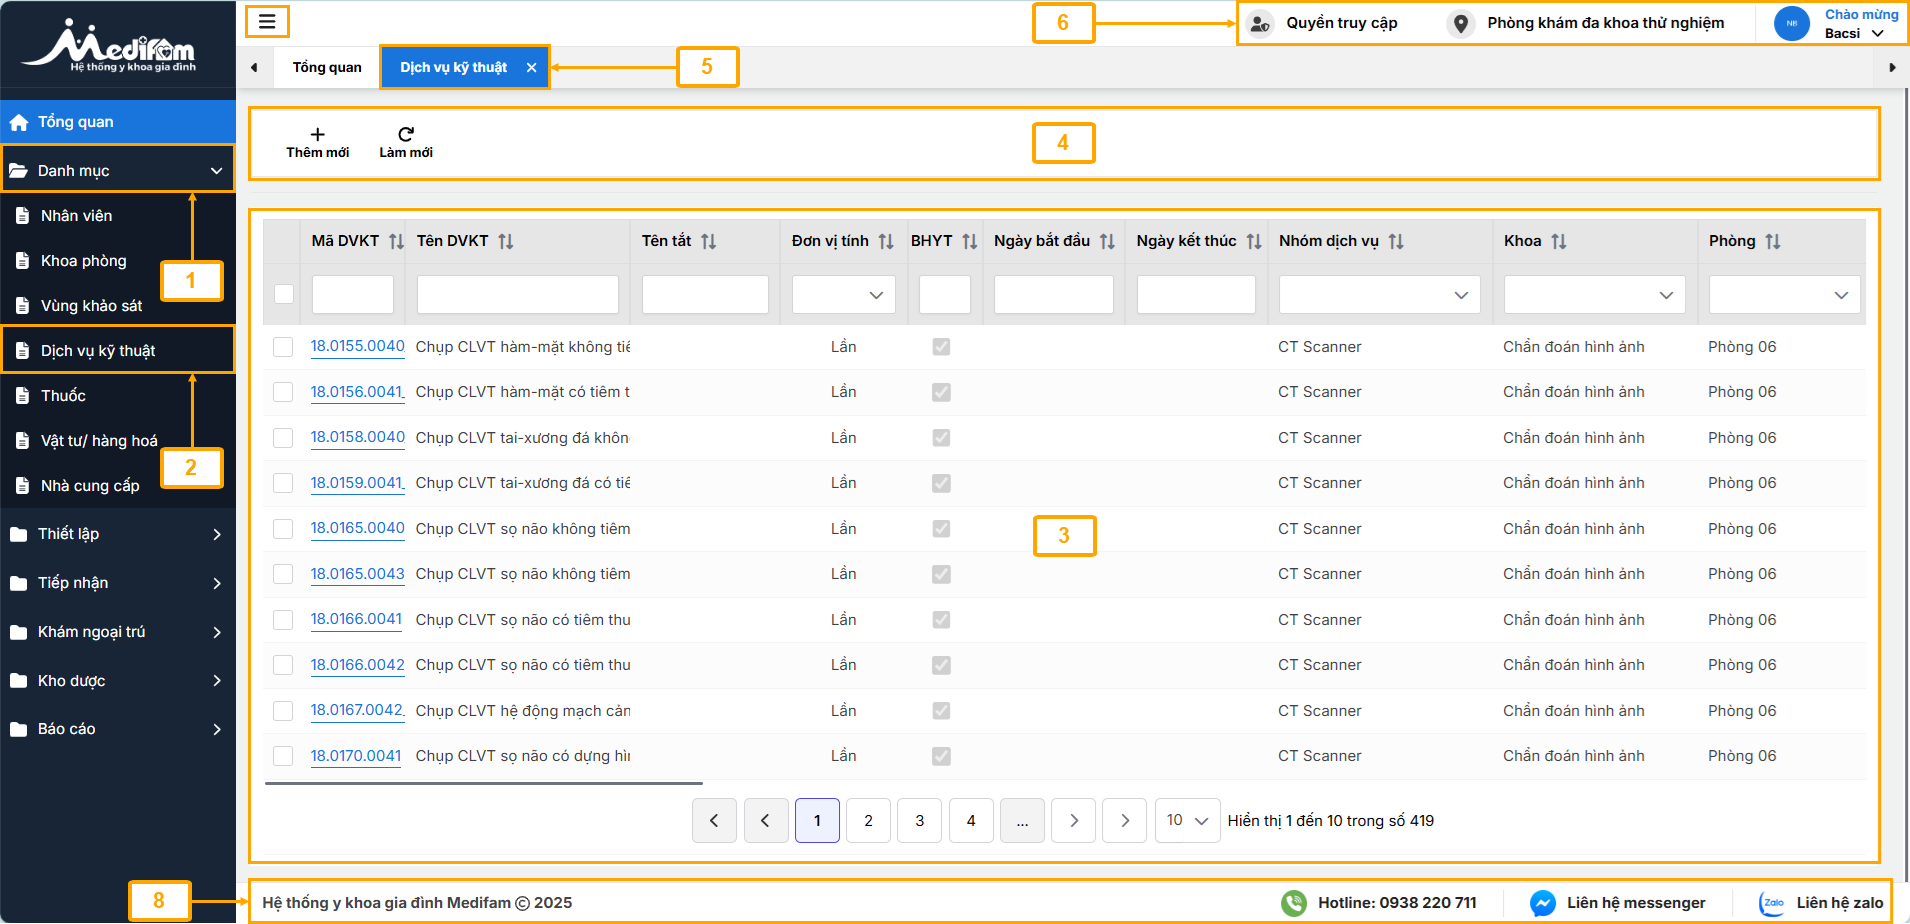
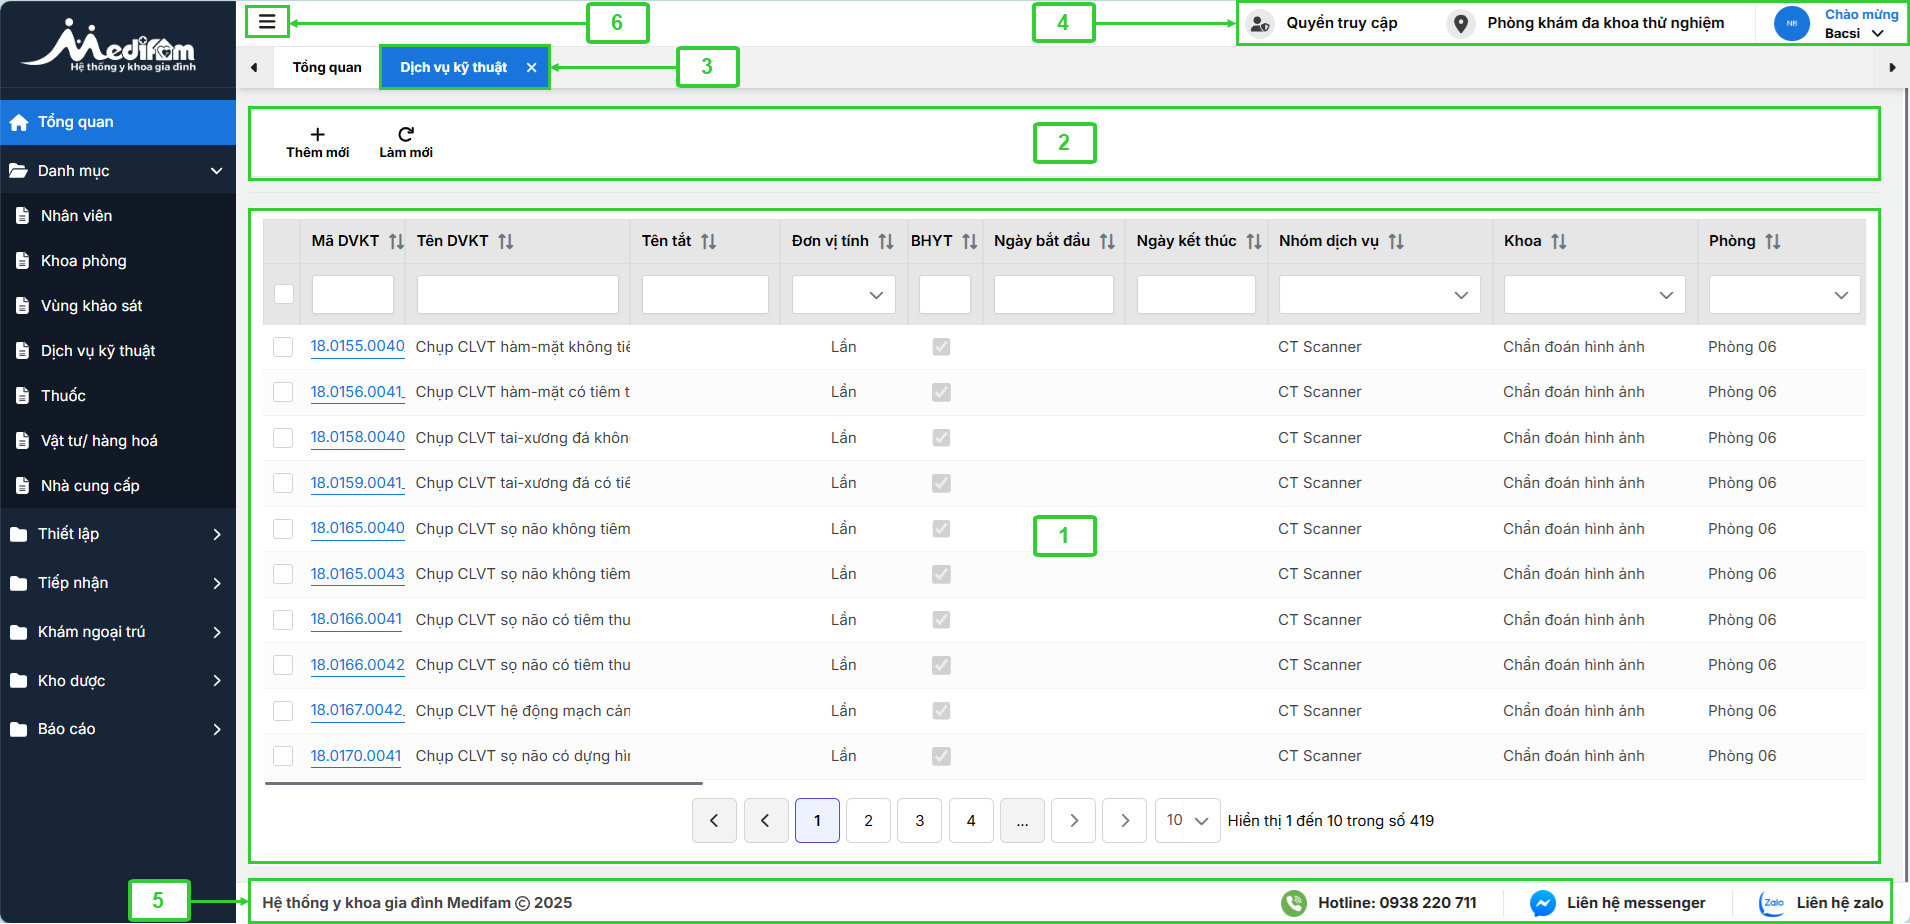
Update: Categories - Technical Service

diff --git a/src/css/custom.css b/src/css/custom.css
@@ -29,17 +29,57 @@
   --docusaurus-highlighted-code-line-bg: rgba(255, 255, 255, 0.1);
 }
 
-/* Custom: General */
-highlight {
-  background-color: #E8F9FF;
-  padding: 0.25rem 0.5rem 0.4rem;
-  border-radius: 0.5rem;
+/* Custom Highlight */
+hl-txt {
+  /* background-color: #d4eefa; */
+  background-color: rgb(238 249 253);
+  padding: 0.25rem 0.5rem 0.25rem;
+  border-radius: 4px;
 }
 
-/* custom navbar */
+.highlight-list {
+  counter-reset: list-counter;
+  list-style: none;
+  padding-left: 1rem;
+}
 
+.highlight-list li {
+  counter-increment: list-counter;
+  margin-bottom: 0.75rem;
+  padding-left: 3rem;
+  position: relative;
+}
+
+.highlight-list li::before {
+  content: counter(list-counter);
+  background-color: #fefefe;
+  color: #32CD32;
+  border: 2px solid #32CD32;
+  border-radius: 4px;
+  display: inline-block;
+  width: 2.25rem;
+  height: 1.25rem;
+  line-height: 1.5rem;
+  text-align: center;
+  position: absolute;
+  left: 0;
+  top: 0;
+  font-size: 0.75rem;
+  font-weight: 600;
+  padding-bottom: 0.25rem;
+}
+
+/* Custom Content */
+.img-shadow {
+  box-shadow: 2px 2px 5px rgba(0, 0, 0, 0.2),
+    4px 4px 10px rgba(0, 0, 0, 0.3),
+    6px 6px 15px rgba(0, 0, 0, 0.4);
+  margin: 0.75rem 0.5rem 1.5rem;
+  border-radius: 0.25rem;
+}
+
+/* Custom Navbar */
 .navbar {
-  /* box-shadow: none; */
   height: 4rem;
 }
 
@@ -67,31 +107,3 @@ highlight {
   font-weight: 600;
 }
 
-/* Custom Footer */
-/* .footer {
-  background-color: #fafafb;
-  color: #23272f;
-}
-
-.footer__title {
-  font-size: 1.2rem;
-  font-weight: bold;
-}
-
-.footer__link {
-  color: #ffffff;
-  text-decoration: none;
-}
-
-.footer__link:hover {
-  text-decoration: underline;
-} */
-
-/* Custom Content */
-
-.img-shadow {
-  box-shadow: 2px 2px 5px rgba(0, 0, 0, 0.2), 
-              4px 4px 10px rgba(0, 0, 0, 0.3), 
-              6px 6px 15px rgba(0, 0, 0, 0.4);
-  margin-bottom: 16px;
-}

diff --git a/docs/categories/technical-serviecs.md b/docs/categories/technical-serviecs.md
@@ -6,19 +6,104 @@ sidebar_position: 1
 
 # Dịch Vụ Kỹ Thuật
 
-> <i>Dịch vụ kỹ thuật là phân hệ quản lý danh mục các dịch vụ kỹ thuật trong y tế, cho phép người dùng dễ dàng tra cứu, tìm kiếm, thêm mới, chỉnh sửa và xóa thông tin dịch vụ.</i>
+> <i>
+>   Dịch vụ kỹ thuật là phân hệ quản lý danh mục các dịch vụ kỹ thuật trong y
+>   tế, cho phép người dùng dễ dàng tra cứu, tìm kiếm, thêm mới, chỉnh sửa và
+>   xóa thông tin dịch vụ.
+> </i>
 
-### Giao diện
-
-<a href="/img/categories/cat-tech-serv-ui.png" target="_blank">
-    <img
-        src="/img/categories/cat-tech-serv-ui.png"
-        alt="technical-service-ui"
-        className="img-shadow"
-    />
+<a href="/img/categories/cat-tech-serv.png" target="_blank">
+  <img
+    src="/img/categories/cat-tech-serv.png"
+    alt="technical-service"
+    className="img-shadow"
+  />
 </a>
 
-1. Nhấn vào bảng chọn <highlight>Danh mục</highlight>
-2. Chọn mục <highlight>Dịch vụ kỹ thuật</highlight>
+Sau khi đăng nhập, người dùng sẽ ở giao diện <hl-txt>Tổng quan</hl-txt> của hệ thông. Để chuyển đến giao diện <hl-txt>Dịch vụ kỹ thuật</hl-txt>, người dùng thực hiện các bước:
 
-Giao diện dịch vụ kỹ thuật sẽ được hiển thị, bao gồm các thành phần:
+<ol className="highlight-list">
+  <li>
+    Nhấn vào bảng chọn <b>Danh mục</b>.
+  </li>
+  <li>
+    Chọn mục <b>Dịch vụ kỹ thuật</b>.
+  </li>
+</ol>
+
+### Giao diện dịch vụ kỹ thuật
+
+<a href="/img/categories/cat-tech-serv-ui.png" target="_blank">
+  <img
+    src="/img/categories/cat-tech-serv-ui.png"
+    alt="technical-service-ui"
+    className="img-shadow"
+  />
+</a>
+
+Giao diện <hl-txt>Dịch vụ kỹ thuật</hl-txt> sẽ được hiển thị, bao gồm các thành phần:
+
+<ol className="highlight-list">
+  <li>Bảng hiển thị danh sách dịch vụ kỹ thuật.</li>
+  <li>Thanh công cụ chứa các nút chức năng.</li>
+  <li>Thanh hiển thị và điều hướng giữa các tab đang mở.</li>
+  <li>Thông tin và hồ sơ người dùng.</li>
+  <li>Thông tin liên hệ hỗ trợ từ bộ phận kỹ thuật.</li>
+  <li>Nút thu hẹp hoặc mở rộng sidebar.</li>
+</ol>
+
+    :::info
+        - Thanh công cụ sẽ hiển thị thêm nút Chỉnh sửa và Xóa khi người dùng chọn 1 dịch vụ.
+        - Thanh công cụ chỉ hiển thị thêm nút Xóa (ẩn nút Chỉnh sửa) khi chọn nhiều dịch vụ.
+        - Có thể xóa đồng thời nhiều dịch vụ nhưng chỉ chỉnh sửa một dịch vụ mỗi lần.
+        - Có thể nhấn vào dấu [ x ] ở thanh hiển thị và điều hướng tab để đóng tab.
+    :::
+
+### Thêm mới dịch vụ
+
+<a href="/img/categories/cat-tech-serv-add.png" target="_blank">
+  <img
+    src="/img/categories/cat-tech-serv-add.png"
+    alt="tech-serv-add"
+    className="img-shadow"
+  />
+</a>
+
+Ở giao diện <hl-txt>Dịch vụ kỹ thuật</hl-txt>, nhấn vào nút <hl-txt>Thêm mới</hl-txt>. Giao diện <hl-txt>Thêm mới dịch vụ</hl-txt> sẽ được hiển thị:
+
+<a href="/img/categories/cat-tech-serv-add-ui.png" target="_blank">
+  <img
+    src="/img/categories/cat-tech-serv-add-ui.png"
+    alt="tech-serv-add-ui"
+    className="img-shadow"
+  />
+</a>
+
+### Lọc và tìm kiếm dịch vụ
+
+<a href="/img/categories/cat-tech-serv-filter.png" target="_blank">
+  <img
+    src="/img/categories/cat-tech-serv-filter.png"
+    alt="tech-serv-filter"
+    className="img-shadow"
+  />
+</a>
+
+<ol className="highlight-list">
+  <li>Thanh tiêu đề hiển thị tên các cột tương ứng với thông tin của dịch vụ.</li>
+  <li>Thanh tìm kiếm và chọn lọc</li>
+</ol>
+
+    :::info
+        - Người dùng có thể nhấn vào tiêu đề của một cột để sắp xếp theo giá trị của cột đó:
+            - _Nhấn lần đầu_ - Sắp xếp theo giá trị tăng dần A-Z 0-9.
+            - _Nhấn lần hai_ - Sắp xếp theo giá trị giảm dần Z-A 9-0.
+            - _Nhấn lần ba_ - Danh sách trở lại trạng thái ban đầu.
+        - Thanh tìm kiếm và chọn lọc cho phép người dùng nhập từ khóa để tìm kiếm. Ở một số cột có các giá trị cố định, người dùng có thể chọn giá trị từ dropdown.
+    :::
+
+### Xem chi tiết dịch vụ
+
+### Chỉnh sửa dịch vụ
+
+### Xóa dịch vụ
